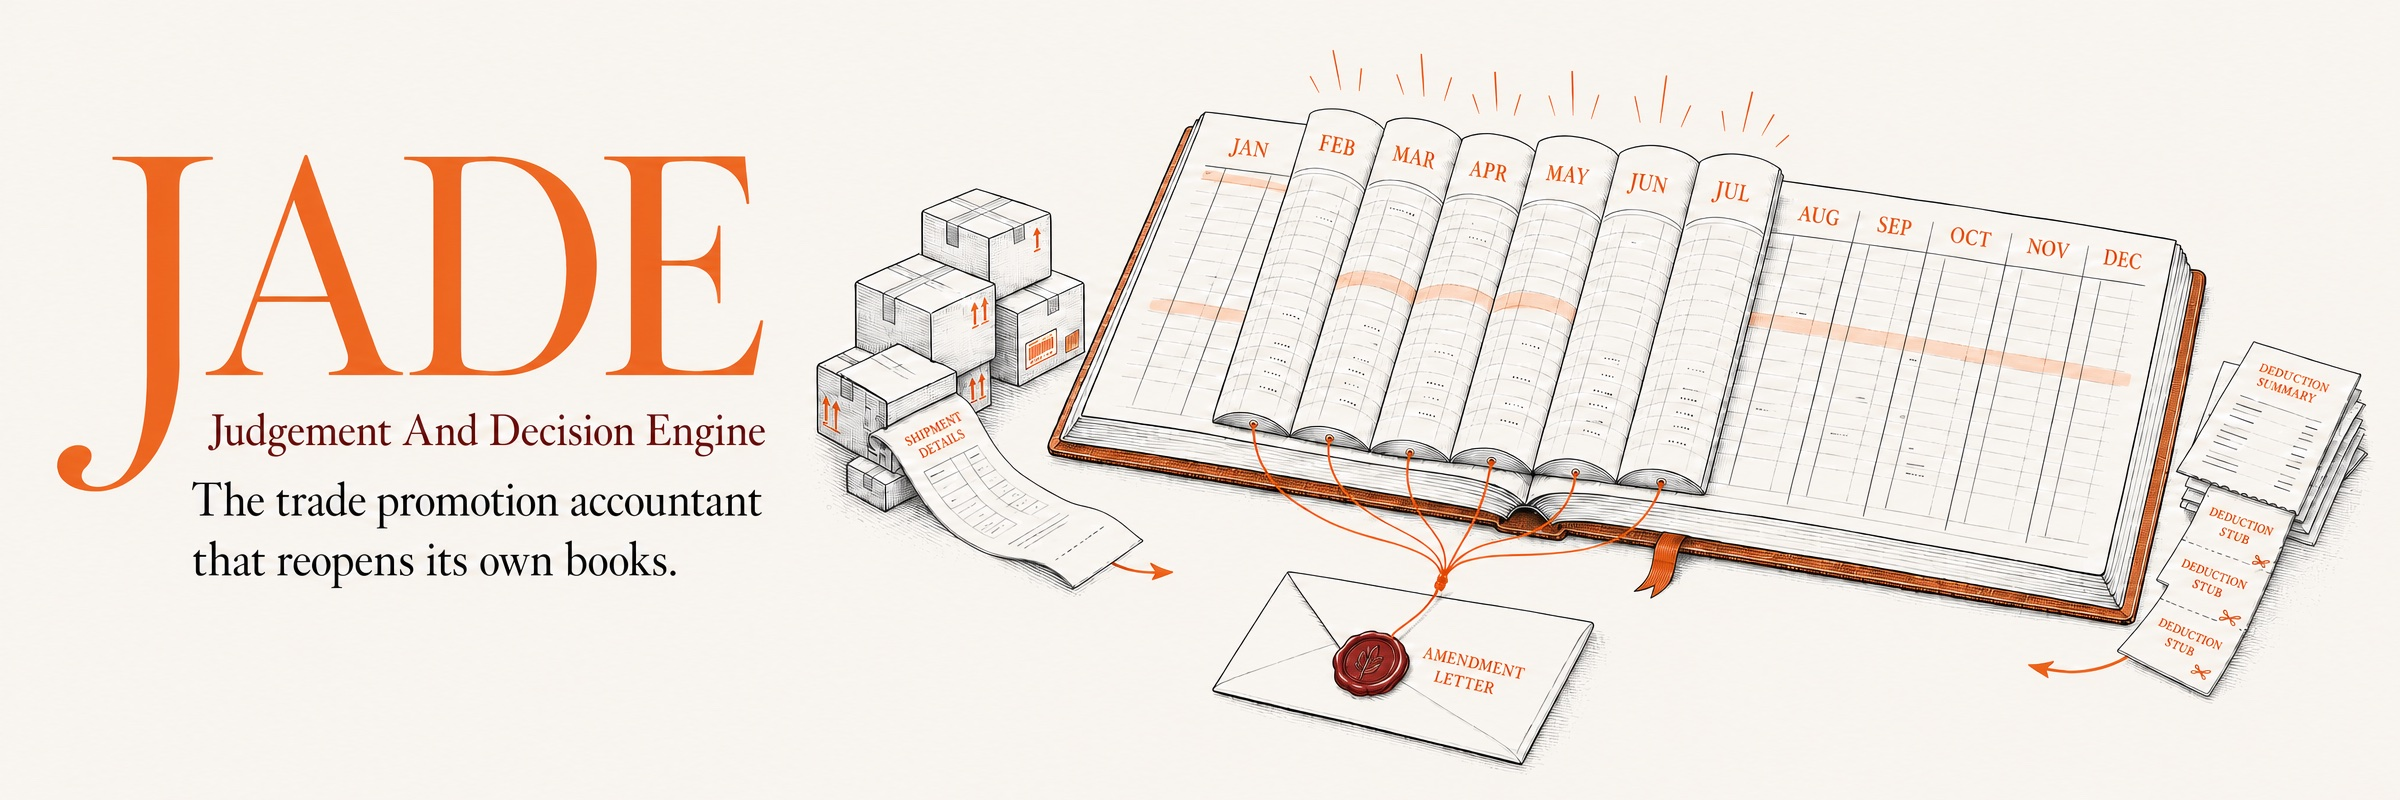
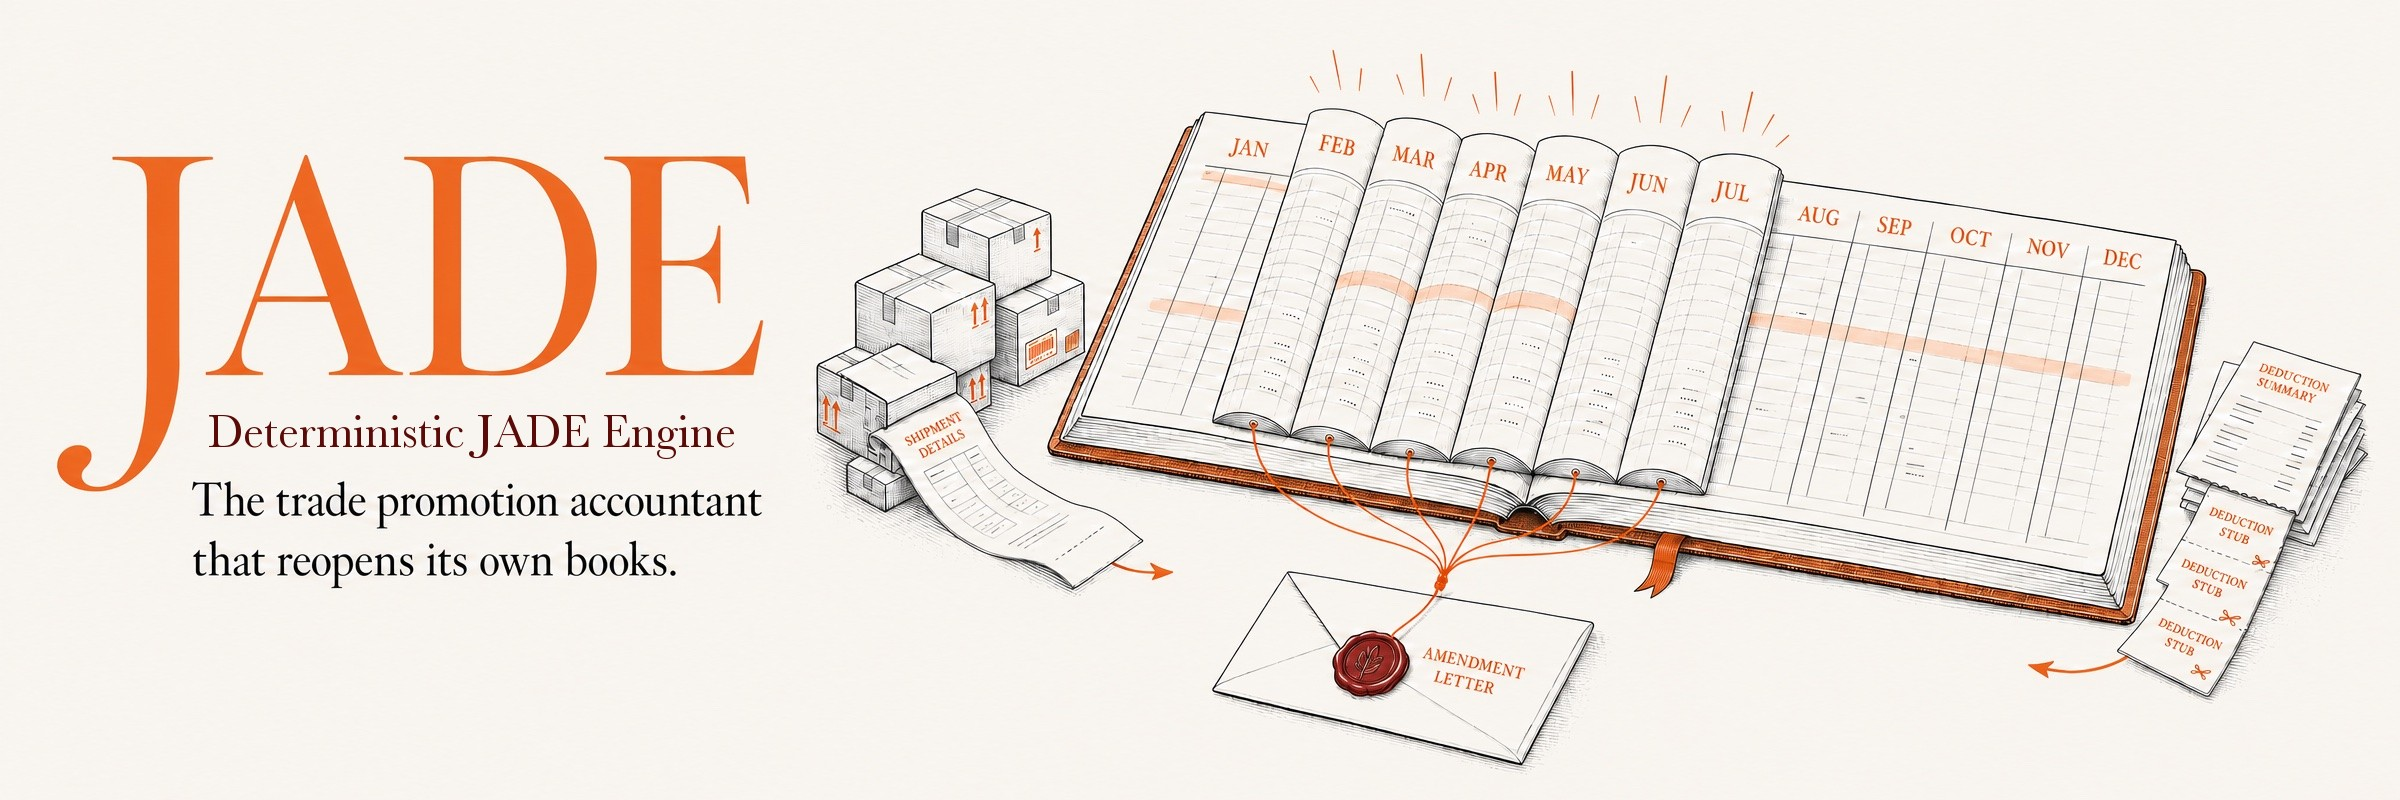
README: Deterministic JADE Engine; email as evidence and the 10-K backtest, shown in the real UI
Keep research on other teams' projects out of the repo (.gitignore) and neutralise the one
heading in spec.md that pointed at it.

Claude-Session: https://claude.ai/code/session_01MHcQGypB3cWA8m1upqfQi7

Changed region(s): [[0.0938, 0.5, 0.3125, 0.5625]]

diff --git a/README.md b/README.md
@@ -1,6 +1,6 @@
-# JADE — Judgement And Decision Engine
+# JADE — Deterministic JADE Engine
 
-![JADE, the Judgement And Decision Engine: the trade promotion accountant that reopens its own books. Shipments and deduction stubs feed an open ledger, and an amendment letter pulls six closed months, February to July, back open to be restated.](docs/images/hero.jpg)
+![JADE, the Deterministic JADE Engine: the trade promotion accountant that reopens its own books. Shipments and deduction stubs feed an open ledger, and an amendment letter pulls six closed months, February to July, back open to be restated.](docs/images/hero.jpg)
 
 <p align="center">
   <b>Cal Hacks 13.0</b> &nbsp;·&nbsp; <b>Hyphenate track</b> &nbsp;·&nbsp; Autonomous trade promotion accounting for General Mills
@@ -86,6 +86,42 @@ known at the time, and what it looks like now.
 The ledger is bitemporal and insert-only: every row records when it was true and when the system learned
 it. Correct then and correct now are both answers to the same query, run at two points in time.
 
+## Email as evidence
+
+![The controller's card for Walmart's $4.50 claim: the sales lead's email is quoted and flagged "Nothing signed: an email is not an amendment", beside the retailer's deduction notice with the lines JADE read from it.](docs/images/ui-email-card.jpg)
+
+Much of what decides a deduction never reaches the books: backup arrives as an attachment, a rate is
+"agreed" in an email, an amendment sits in someone's folder. JADE reads the deductions inbox (Gmail, through
+the Google Workspace CLI) the way it reads contracts: by code, with every field quoted from its sentence.
+A deduction notice, backup or signed amendment lands as source rows; anything else is context.
+
+**It reads the email; it doesn't obey it.** The Walmart sales lead writes "$4.50 a case, paperwork to follow,
+please clear their claim at that rate." Without that email, Walmart's $4.50 claim goes to the customer team and
+last year's precedent disputes the difference. With it, the card goes to the controller, quotes the email, and
+recommends a hold: an email is not an agreement, and the person who negotiated the deal can't approve its claim.
+When the signed amendment arrives, JADE reads it and restates September by $190,415.99.
+
+![The Integrations page: Gmail and SEC EDGAR feed the JADE engine, Claude drafts card wording only, and the engine writes to an insert-only Postgres ledger, the escalation inbox and the Excel close package. Retail Link and EDI 820 are drawn as planned.](docs/images/ui-integrations.jpg)
+
+`scripts/demo_mail.py run side-letter` plays it end to end. More in [Integrations](docs/integrations.md).
+
+## Backtested on General Mills' real 10-Ks
+
+![The Backtest page: General Mills' trade promotion liability as a share of net sales from FY2011 to FY2026, and the estimate at each close against what the 10-K reported.](docs/images/ui-backtest.jpg)
+
+Deduction-level data is never public, so what can be tested on real books is the estimate General Mills itself
+calls critical: the trade promotion liability at each year end. Walked forward, so no close sees its own 10-K:
+
+- **Audited books swing up to 22.1% a year** (FY2022). Today's ±50% analytical review can't fail; ±22% is
+  calibrated on sixteen years of filings.
+- **Carrying last year's balance forward misses by 9.4%; scaling by sales misses by 12.3%.** The balance follows
+  which programs run and how late retailers claim, which is why JADE accrues program by program.
+- **When the estimate trues up, the quarter moves:** trade expense timing cost 3 points of Q4 sales growth in
+  FY2024 and 13 points of Q4 profit growth in FY2025, and added 7 points in FY2026 (earnings releases, quoted).
+
+`make backtest` prints it; the sources are in [`tpa/filings.py`](tpa/filings.py), and the simulation's
+statistics beside industry benchmarks are in [Benchmarks](docs/benchmarks.md).
+
 ## How it works
 
 ![One month, end to end: ship and accrue, deduction lands, match to program, clear, dispute or ask, verifiability gates, flux commentary, sign the close, around an insert-only ledger where every number is computed by code. Questions asked once are remembered.](docs/images/how-it-works.jpg)
@@ -148,6 +184,9 @@ Python · FastAPI · Postgres 16 (bitemporal, insert-only ledger) · Claude · R
 | [Getting started](docs/getting-started.md) | setup, `make` targets, the frontend |
 | [Architecture](docs/architecture.md) | the six layers, how a month runs, code map, engine hooks |
 | [People and controls](docs/people-and-controls.md) | who decides what, cards, precedents, segregation of duties |
+| [Integrations](docs/integrations.md) | the Gmail deductions inbox and the live email demo |
+| [Presenting the data](docs/presenting.md) | the Integrations map, the Backtest page, what each chart says |
+| [Benchmarks](docs/benchmarks.md) | the simulation beside sourced industry and peer figures |
 | [Proof](docs/proof.md) | real vs simulated, scores, what it got wrong |
 | [API](docs/api.md) | endpoints and live scenarios |
 | [Data](DATA.md) | where every row comes from |

diff --git a/spec.md b/spec.md
@@ -601,7 +601,7 @@ Submission closes Sunday 9:00 AM PT, hard. The plan ends at 6:00 AM with three h
 2. **Commit on green only.** One broken main at 4am costs more than any feature gains.  
 3. **If a thing is not on screen by Saturday 8pm, it is cut.** No exceptions, including the restatement — although if the restatement is cut, the project is cut, so protect it above everything.
 
-## **The demo \# GET INSPIRED FROM HACKMIT DEMOS \#\#\# AGENT TODO.** 
+## **The demo**
 
 ### **The moment**
 
